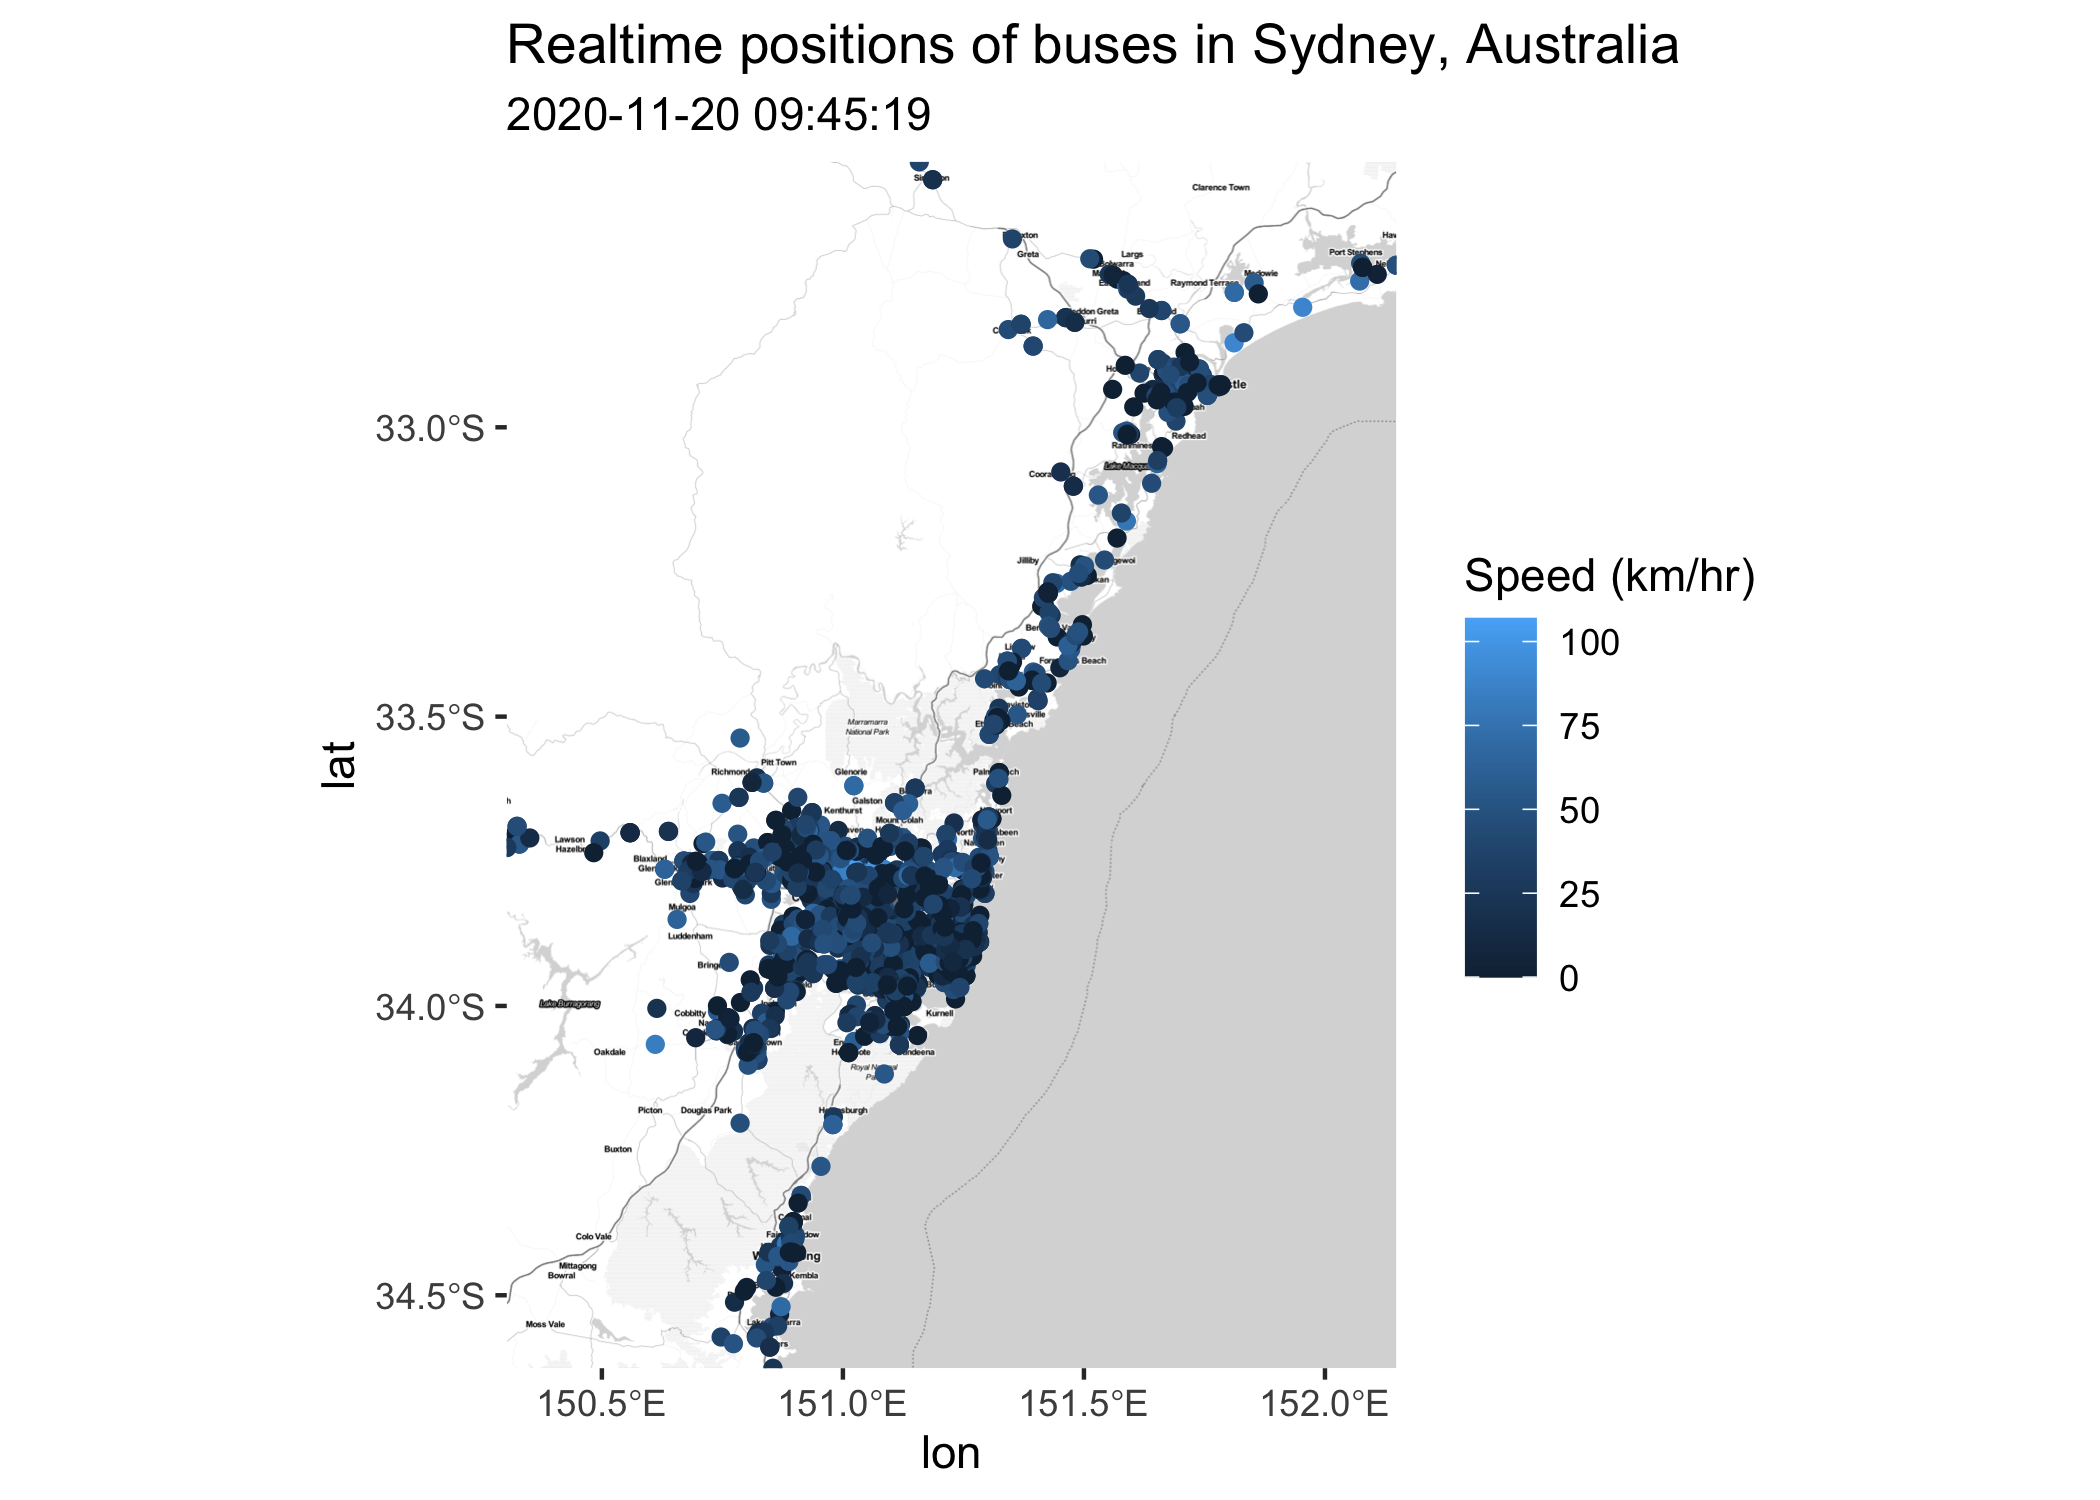
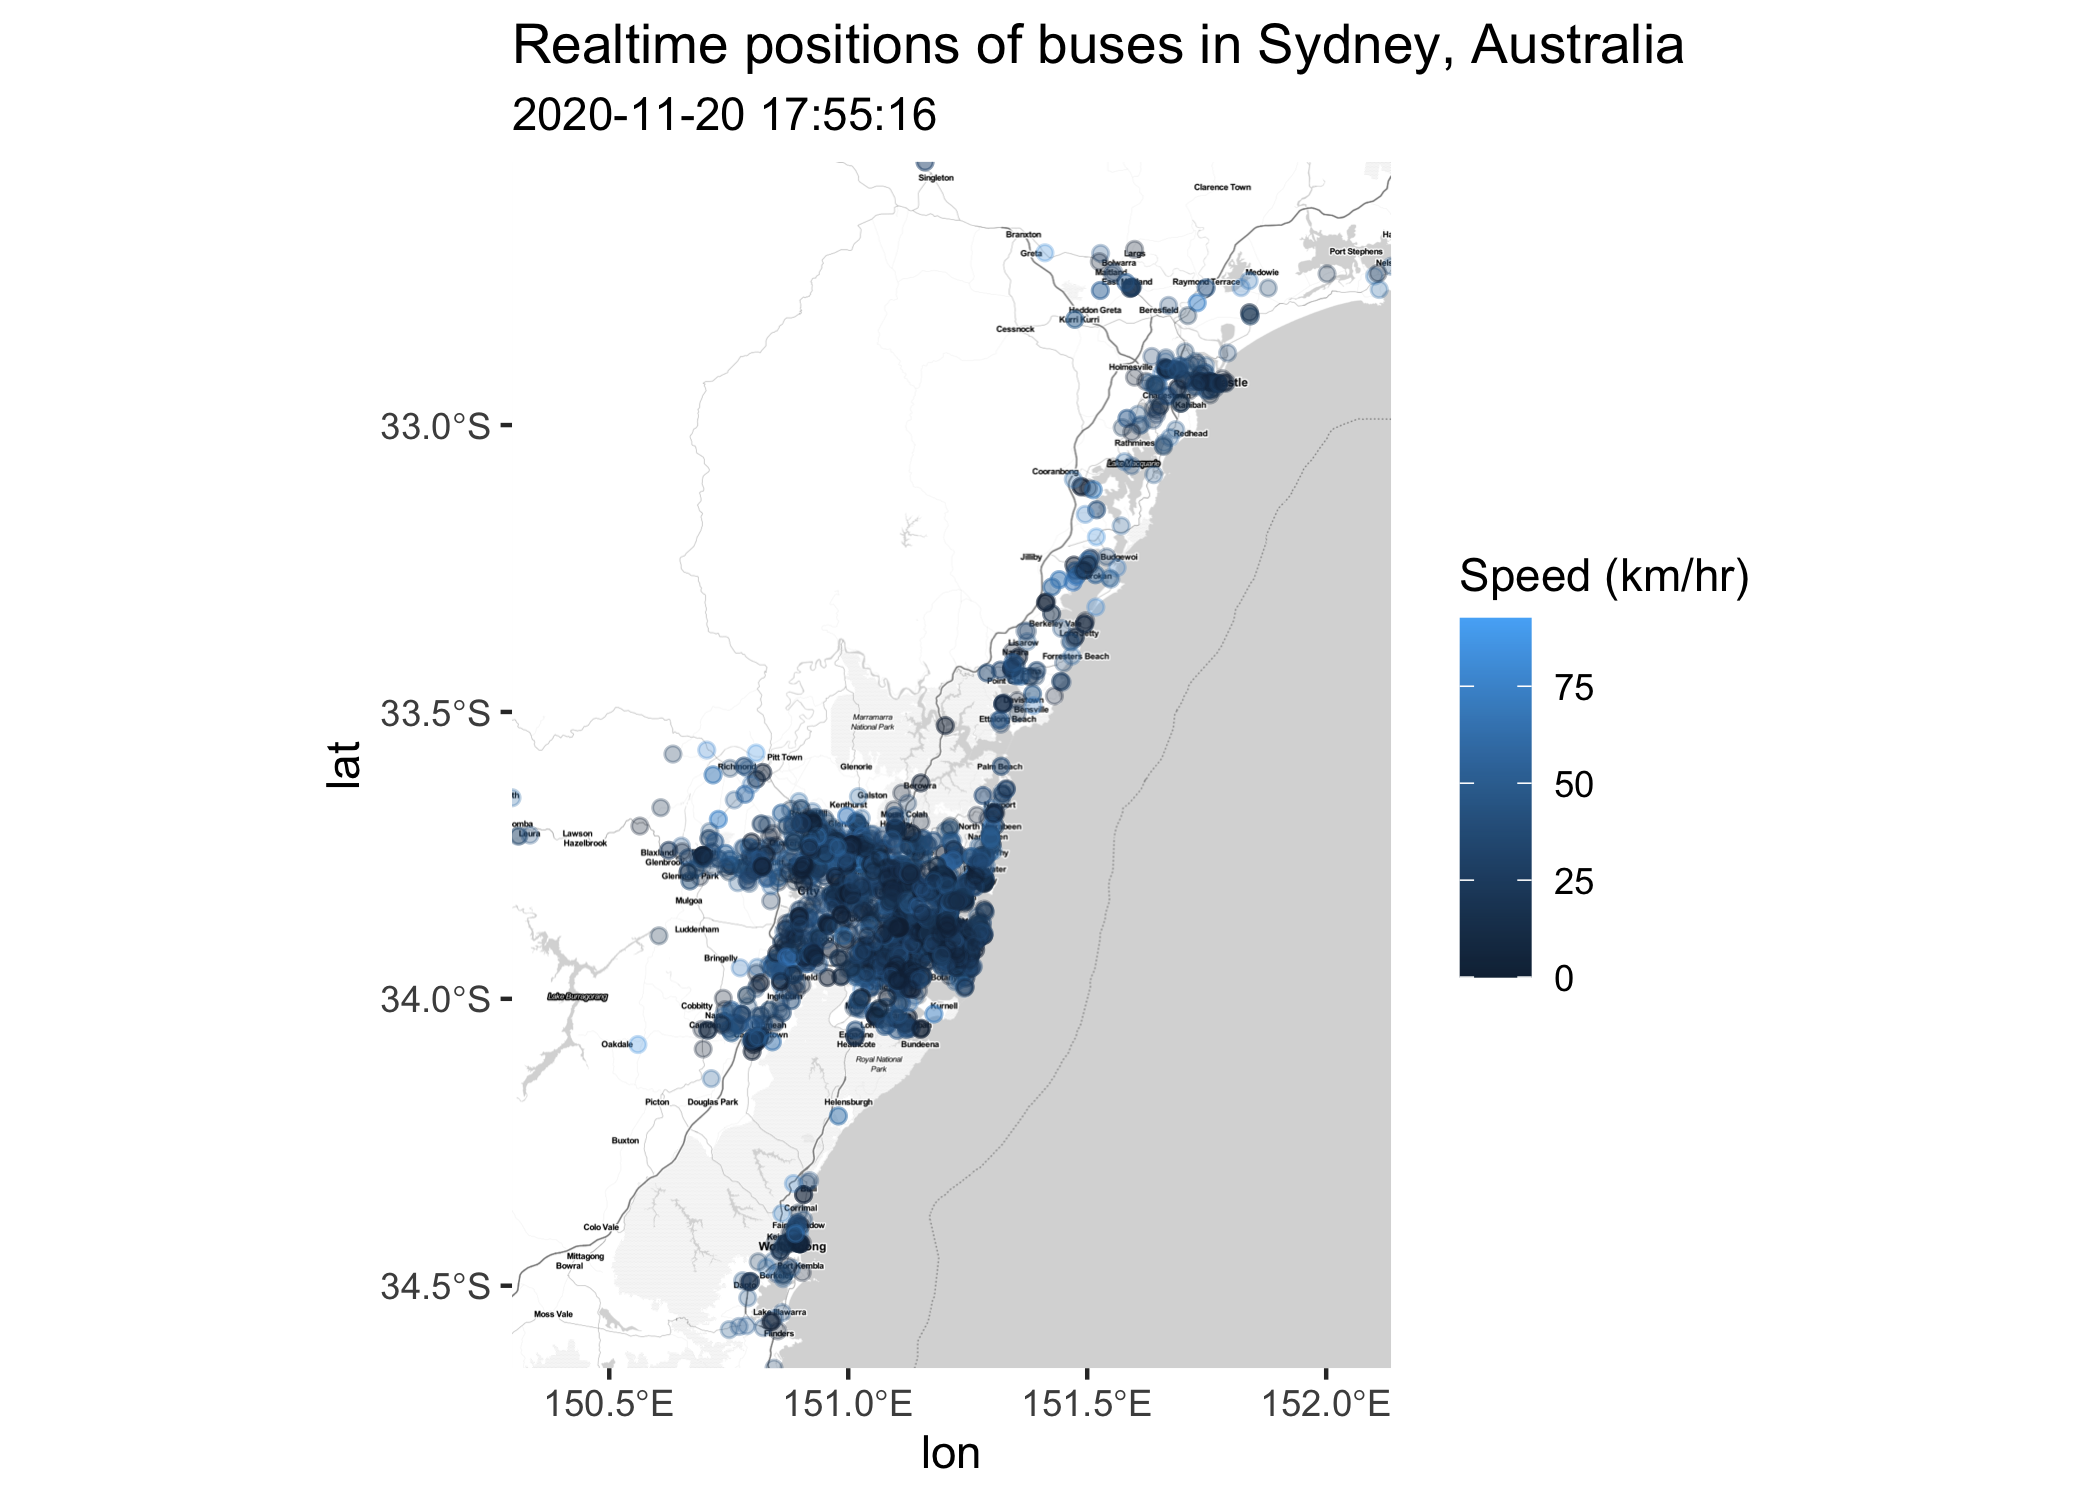
Add animated GTFS realtime example to readme (#3)
* add animated gtfsr example in README

* update README figs

diff --git a/README.md b/README.md
@@ -68,7 +68,7 @@ tidied_carpark = data.frame(
 
 library(ggplot2)
 ggplot(data = tidied_carpark, aes(x = zone_id)) +
-  geom_col(aes(y = as.integer(total_spots), fill = "Capacity"), alpha = 0.7) +
+  geom_col(aes(y = as.integer(total_spots), fill = "Capacity"), alpha = 0.3) +
   geom_col(aes(y = as.integer(occupied_spots), fill = "Occupied")) +
   theme_minimal() +
   scale_fill_manual(values = c("Occupied" = "#DA7800", "Capacity" = "grey60")) +
@@ -92,6 +92,7 @@ See TfNSW GTFS Realtime documentation
 library(tfnswapi)
 library(ggplot2)
 library(ggmap)
+library(data.table)
 library(sf)
 
 # remove `if (FALSE)` to register your own API key
@@ -100,10 +101,11 @@ if (FALSE) {
 }
 
 bus_response = tfnswapi_get("gtfs/vehiclepos/buses")
-bus_position_table = bus_response$content$entity$vehicle$position
+bus_position_table = data.table::as.data.table(bus_response$content$entity$vehicle$position)
 
 bus_position_table = 
   bus_position_table %>%
+  .[!is.na(longitude), ] %>%
   sf::st_as_sf(coords = c("longitude", "latitude")) %>%
   sf::st_set_crs(value = sf::st_crs("WGS84"))
 
@@ -118,10 +120,69 @@ sydney_map = get_stamenmap(sydney_bbox, maptype = "toner-lite", messaging = FALS
 
 ggmap(sydney_map) +
   coord_sf(crs = sf::st_crs("WGS84")) +
-  geom_sf(data = bus_position_table, aes(color = speed), inherit.aes = FALSE) +
+  geom_sf(data = bus_position_table, aes(color = speed), alpha = 0.3, inherit.aes = FALSE) +
   labs(title = "Realtime positions of buses in Sydney, Australia",
        color = "Speed (km/hr)",
        subtitle =  format(bus_response$date, tz = "Australia/Sydney"))
 ```
 
 <img src="man/figures/README-gtfsr-example-1.png" width="100%" />
+
+### Animate GTFS Realtime data
+
+Animate GTFS Realtime data with
+[mapdeck](https://symbolixau.github.io/mapdeck/index.html).
+
+``` r
+library(tfnswapi)
+library(data.table)
+library(sf)
+library(mapdeck)
+library(sfheaders)
+
+# remove `if (FALSE)` to register your own API key
+if (FALSE) {
+  tfnswapi_register("<your-api-key>")
+}
+
+# query GTFS realtime 20 times, 5 seconds between each request.
+n = 30
+bus_responses = lapply(1:n, function(x) {
+  Sys.sleep(5)
+  tfnswapi_get("gtfs/vehiclepos/buses")
+}) 
+
+# tidy the vehicle position data
+bus_position_tables = lapply(1:n, function(x) {
+  .data = bus_responses[[x]]$content$entity$vehicle$position
+  .data[["vehicle_id"]] = bus_responses[[x]]$content$entity$vehicle$vehicle$id
+  .data[['timestep']] = x
+  .data
+}) %>% data.table::rbindlist() %>%
+  data.table::setorder(vehicle_id) %>%
+  .[, elev := 0] %>%
+  .[!is.na(latitude)]
+
+# convert it into sf
+bus_position_sfc = sfheaders::sfc_linestring(
+    obj = bus_position_tables
+    , x = "longitude"
+    , y = "latitude"
+    , z = "elev"
+    , m = "timestep"
+    , linestring_id = "vehicle_id"
+)
+
+bus_position_sf = 
+  sf::st_as_sf(bus_position_tables[bus_position_tables[, .I[1], by = vehicle_id]$V1, 
+               .(vehicle_id, bearing, speed)],
+                               bus_position_sfc)
+  
+# visualise
+mapdeck(style = mapdeck_style("dark")) %>%
+  add_trips(data = bus_position_sf,
+            stroke_colour = "vehicle_id",
+            animation_speed = 10)
+```
+
+![](man/figures/animated-gtfsr-sydney.gif)
